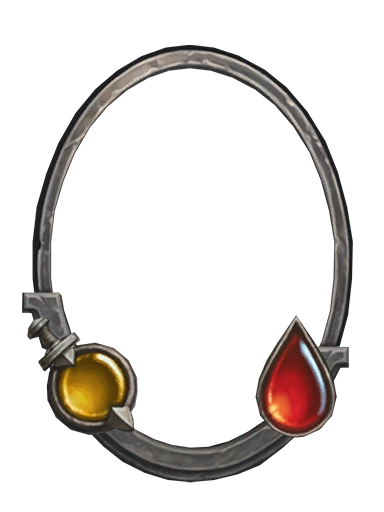
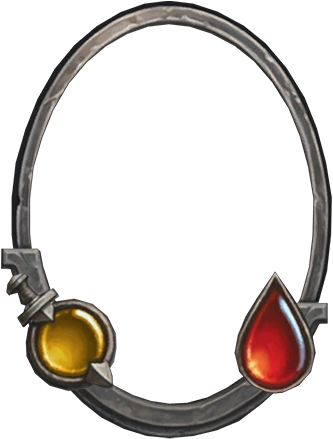
working on minion board view

diff --git a/public/MinionBoardView.ts b/public/MinionBoardView.ts
@@ -1,23 +1,29 @@
 import * as PIXI from 'pixi.js'
+import MinionModel from './MinionModel.ts'
 
 class MinionBoardView extends PIXI.Container {
+  public minion: MinionModel
+
   private portrait: PIXI.Sprite
   private frame: PIXI.Sprite
-  private attackIcon: PIXI.Sprite
   private attackText: PIXI.Text
-  private healthIcon: PIXI.Sprite
   private healthText: PIXI.Text
   private statTextStyle: PIXI.TextStyle
 
-  constructor() {
+  constructor(minion: MinionModel) {
     super()
+
+    this.minion = minion
+
+    this.scale.set(0.8)
 
     this.portrait = PIXI.Sprite.from(
       './media/images/cardimages/cairne_bloodhoof.jpg'
     )
-    this.portrait.anchor.set(0.5, 0.5)
-    this.portrait.scale.set(0.07)
-    this.portrait.position.set(-30, 0)
+    // this.loadPortraitImage()
+    this.portrait.anchor.set(0.5)
+    this.portrait.scale.set(0.069)
+    this.portrait.position.set(-30, -4)
     this.addChild(this.portrait)
 
     const mask = new PIXI.Graphics()
@@ -31,15 +37,15 @@ class MinionBoardView extends PIXI.Container {
     this.portrait.mask = mask
     this.portrait.addChild(mask)
 
-    this.frame = PIXI.Sprite.from('./media/images/empty_board_frame.png')
-    this.frame.anchor.set(0.5, 0.5)
+    this.frame = PIXI.Sprite.from('./media/images/minion_board_frame.png')
+    this.frame.anchor.set(0.5)
     this.frame.scale.set(0.5)
     this.addChild(this.frame)
 
     this.statTextStyle = new PIXI.TextStyle({
       fontFamily: 'Belwe',
-      stroke: { color: 'black', width: 7 },
-      fontSize: 60,
+      stroke: { color: 'black', width: 4 },
+      fontSize: 46,
       fill: 'white',
       fontWeight: 'bold',
       align: 'center',
@@ -47,9 +53,6 @@ class MinionBoardView extends PIXI.Container {
 
     this.setupAttack()
     this.setupHealth()
-
-    this.updateAttack(4)
-    this.updateHealth(5)
 
     this.eventMode = 'static'
   }
@@ -62,50 +65,40 @@ class MinionBoardView extends PIXI.Container {
     this.healthText.text = newHealth
   }
 
+  private async loadPortraitImage() {
+    this.portrait.texture = await PIXI.Assets.load(
+      `./media/images/cardimages/${this.minion.fileName}.jpg`
+    )
+  }
+
   private setupAttack(): void {
-    this.attackIcon = new PIXI.Sprite(
-      PIXI.Texture.from('./media/images/attack.png')
-    )
-    this.attackIcon.anchor.set(0.5, 0.5)
-    this.attackIcon.scale.set(0.3)
-    this.attackIcon.position.set(
-      -this.frame.width / 2 + 32,
-      this.frame.height / 2 - 38
-    )
     this.attackText = new PIXI.Text({
       text: '',
       style: this.statTextStyle,
     })
-    this.attackText.anchor.set(0.5, 0.5)
+    this.attackText.anchor.set(0.5)
     this.attackText.position.set(
-      -this.frame.width / 2 + 35,
-      this.frame.height / 2 - 42
+      -this.frame.width / 2 + 36,
+      this.frame.height / 2 - 51
     )
-    this.addChild(this.attackIcon)
     this.addChild(this.attackText)
+
+    this.updateAttack(this.minion.attack)
   }
 
   private setupHealth(): void {
-    this.healthIcon = new PIXI.Sprite(
-      PIXI.Texture.from('./media/images/health.png')
-    )
-    this.healthIcon.anchor.set(0.5, 0.5)
-    this.healthIcon.scale.set(0.3)
-    this.healthIcon.position.set(
-      this.frame.width / 2 - 24,
-      this.frame.height / 2 - 32
-    )
     this.healthText = new PIXI.Text({
       text: '',
       style: this.statTextStyle,
     })
-    this.healthText.anchor.set(0.5, 0.5)
+    this.healthText.anchor.set(0.5)
     this.healthText.position.set(
-      this.frame.width / 2 - 24,
-      this.frame.height / 2 - 40
+      this.frame.width / 2 - 29,
+      this.frame.height / 2 - 51
     )
-    this.addChild(this.healthIcon)
     this.addChild(this.healthText)
+
+    this.updateHealth(this.minion.health)
   }
 }
 

diff --git a/public/Board.ts b/public/Board.ts
@@ -1,9 +1,9 @@
 import * as PIXI from 'pixi.js'
 import CardDragState from './CardDragState.ts'
-import MinionCardView from './MinionCardView.ts'
+import MinionBoardView from './MinionBoardView.ts'
 
 class Board extends PIXI.Container {
-  minionArray: MinionCardView[] = []
+  minionViewArray: MinionBoardView[] = []
   bounds: PIXI.Graphics
 
   constructor(width: number, height: number) {
@@ -18,20 +18,31 @@ class Board extends PIXI.Container {
       .stroke({ width: 2, color: 0xff0000 })
     this.addChild(this.bounds)
 
-    // for (let i = 0; i < 1; i++) {
-    //   const card = new Minion()
-    //   card.serverData.location = CardLocation.Board
-    //   card.position.set(this.x, this.y)
-    //   card.scale.set(0.5)
-    //   card.pivot.set(card.width / 2, card.height / 2)
-    //   this.minionArray.push(card)
-    //   this.addChild(card)
-    // }
-
     this.eventMode = 'static'
     this.on('mouseover', (event) => {
       if (!CardDragState.getDraggedCard()) return
     })
+  }
+
+  setBoardData(minions: MinionBoardView[]): void {
+    this.minionViewArray.forEach((minion) => {
+      if (minion instanceof MinionBoardView) {
+        this.removeChild(minion)
+      }
+    })
+
+    this.minionViewArray = minions
+    this.minionViewArray.forEach((minion) => {
+      this.addChild(minion)
+    })
+    this.adjustMinionPositions()
+  }
+
+  adjustMinionPositions() {
+    for (let i = 0; i < this.minionViewArray.length; i++) {
+      this.minionViewArray[i].x = (i + 1) * this.minionViewArray[i].width * 1.2
+      this.minionViewArray[i].y = this.y - this.minionViewArray[i].height * 2
+    }
   }
 }
 

diff --git a/public/main.ts b/public/main.ts
@@ -38,16 +38,14 @@ export const app = new PIXI.Application()
   document.getElementById('pixi-container')!.appendChild(app.canvas)
 
   await PIXI.Assets.load([
-    './media/images/jaina.png',
     './media/images/jaina_portrait.png',
     './media/images/mana.png',
     './media/images/attack.png',
     './media/images/health.png',
     './media/images/name-banner-minion.png',
     './media/images/cardimages/cairne_bloodhoof.jpg',
-    './media/images/Card_Inhand_Minion_Priest.png',
     './media/images/card_inhand_minion_priest_frame.png',
-    './media/images/empty_board_frame.png',
+    './media/images/minion_board_frame.png',
   ])
 
   const background = PIXI.Sprite.from(
@@ -151,9 +149,10 @@ export const app = new PIXI.Application()
             cardView = new MinionCardView(model)
           minionModels.push(model)
           minionCardViews.push(cardView)
-          // minionBoardViews.push(new MinionBoardView(model))
+          minionBoardViews.push(new MinionBoardView(model))
         })
         hand.setHandData(minionCardViews)
+        board.setBoardData(minionBoardViews)
       },
       onFailure: (data: any) => {
         setTimeout(() => {

diff --git a/public/MinionCardView.ts b/public/MinionCardView.ts
@@ -253,7 +253,7 @@ class MinionCardView extends PIXI.Container {
       this.ocardx = this.x
       this.ocardy = this.y
     })
-    this.on('mouseenter', (event) => {
+    this.on('pointerenter', (event) => {
       if (this.enlarged) return
       if (this.reverting) return
       if (CardDragState.getDraggedCard() === this) return
@@ -274,7 +274,7 @@ class MinionCardView extends PIXI.Container {
         ease: 'power4.out',
       })
     })
-    this.on('mouseleave', (event) => {
+    this.on('pointerleave', (event) => {
       if (this.reverting) return
       if (CardDragState.getDraggedCard() === this) return
 

diff --git a/public/Hand.ts b/public/Hand.ts
@@ -75,16 +75,14 @@ class Hand extends PIXI.Container {
       (card) => card.minion.id === id
     )
 
-    gsap.to(cardView, { duration: 0.1, alpha: 0 })
-    gsap.to(cardView.position, {
-      x: cardView.x,
-      y: cardView.y - 50,
-      duration: 0.1,
-      ease: 'power2.out',
-      onComplete: () => {
-        this.removeChild(cardView)
-      },
-    })
+    // gsap.to(cardView, {
+    //   duration: 0.1,
+    //   alpha: 0,
+    //   ease: 'power2.out',
+    //   onComplete: () => {
+    this.removeChild(cardView)
+    //   },
+    // })
   }
 
   adjustCardPositions(): void {

diff --git a/vite.config.js b/vite.config.js
@@ -7,6 +7,6 @@ export default defineConfig({
   },
   server: {
     open: true,
-    hmr: false,
+    hmr: true,
   },
 })
